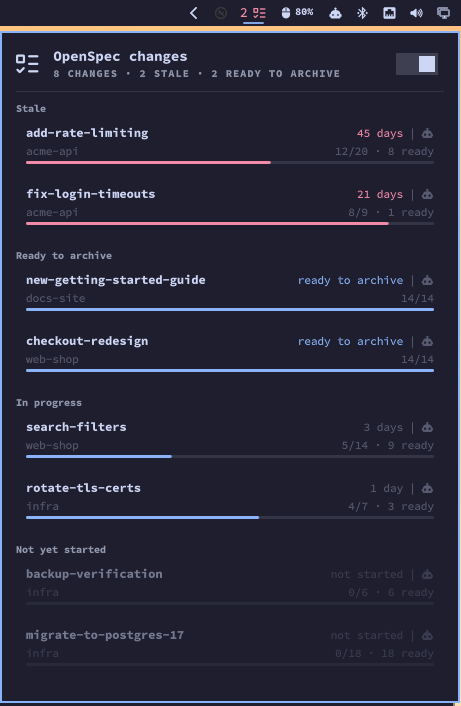
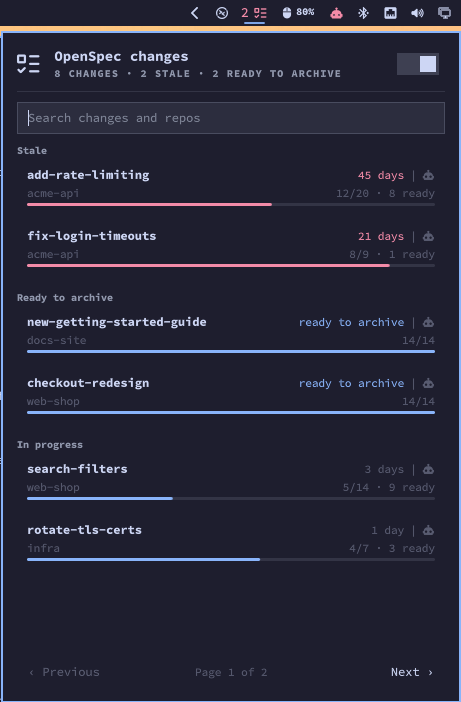
docs: show the search box in the readme
Retake preview.png with demo data now that the panel has a search
box, and describe searching in the panel section.

diff --git a/README.md b/README.md
@@ -2,7 +2,7 @@
 
 Tells you which OpenSpec changes have gone quiet, across every repo on your machine, so a change doesn't get forgotten altogether.
 
-![The openspec-pulse panel open under its bar badge, listing changes grouped as stale, ready to archive, in progress and not yet started](preview.png)
+![The openspec-pulse panel open under its bar badge, with a search box above changes grouped as stale, ready to archive, in progress and not yet started](preview.png)
 
 *The Omarchy panel, with demo data.*
 
@@ -121,7 +121,7 @@ A local clone works as the URL too (`omarchy plugin add ~/dev/openspec-pulse --e
 ### What it shows
 
 - **Badge**: a task-list glyph, with the number of stale changes beside it in the theme's attention colour, or a warning glyph when the CLI or a repo has an error. Hover for a summary.
-- **Panel** (click the badge): totals, then changes grouped as stale, ready to archive, in progress and not yet started. The panel stays one size and pages rather than scrolls. A switch in its header turns the daily reminder on or off, which only affects the notification, not the badge.
+- **Panel** (click the badge): totals, then changes grouped as stale, ready to archive, in progress and not yet started. The panel stays one size and pages rather than scrolls. Type to narrow the list to changes whose name or repo contains the text; Escape clears the search, and a second Escape closes the panel. On the command line, pipe `status` through `grep` instead. A switch in its header turns the daily reminder on or off, which only affects the notification, not the badge.
 - **Change view** (click a change): its task groups in file order, open tasks listed and done ones folded away, plus buttons to open your default agent in the repo (with `/opsx:apply <change>`, told to check with you before changing anything) or open `tasks.md` in your editor. Hover cut-off text to read all of it.
 
 The plugin runs `status --json` every 5 minutes and whenever the panel opens, and `notify` on the same timer; the CLI decides whether a digest is due. The digest's **See more** opens this panel on the focused monitor.
